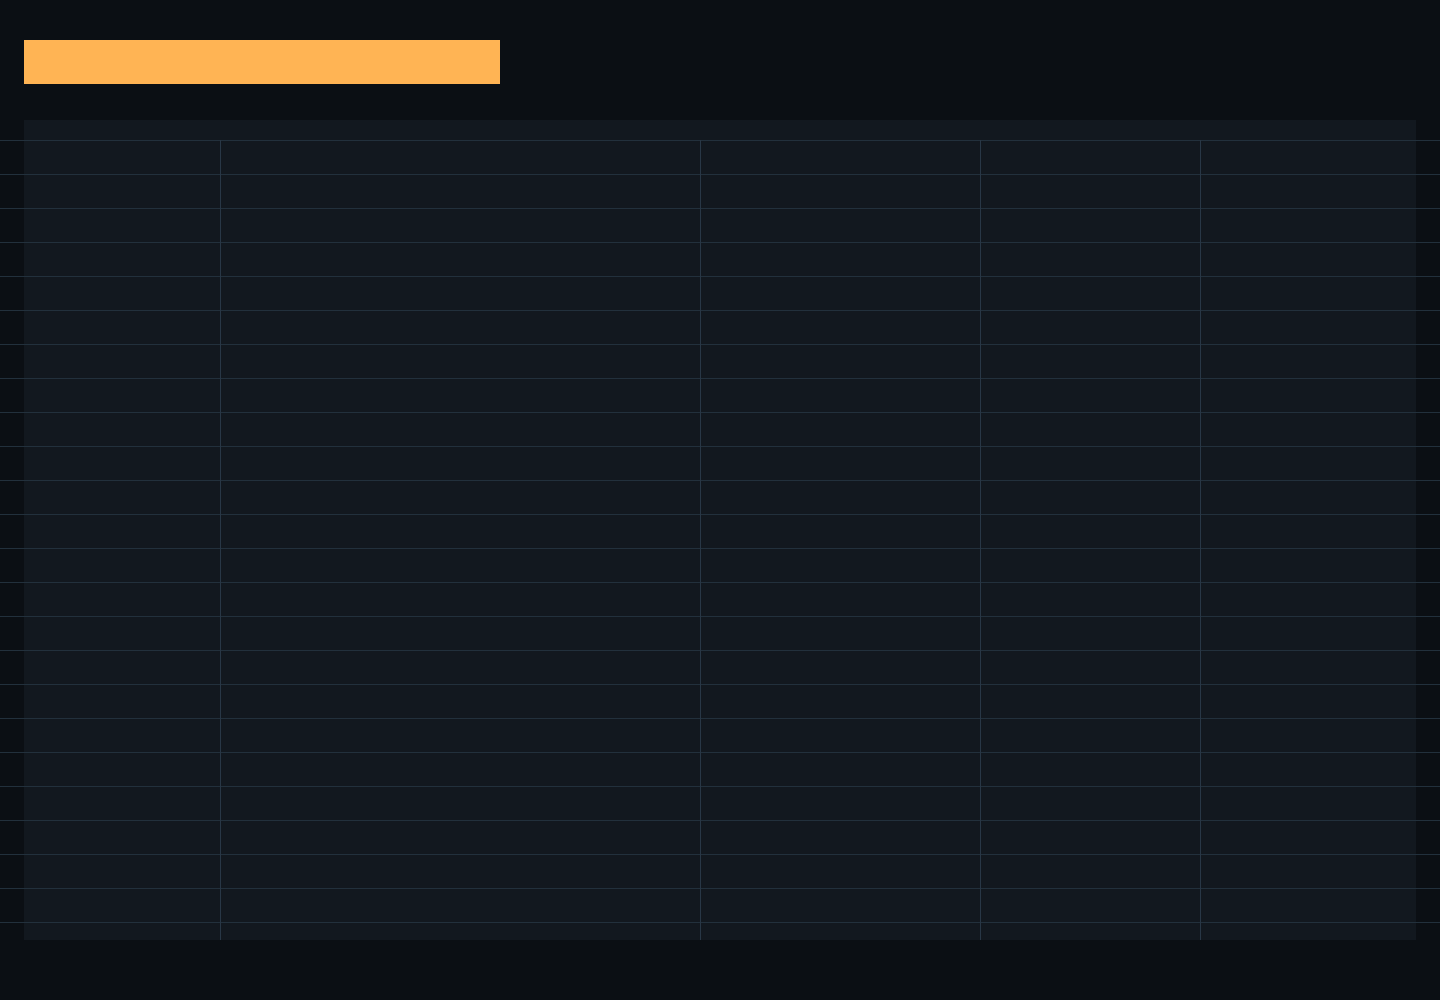
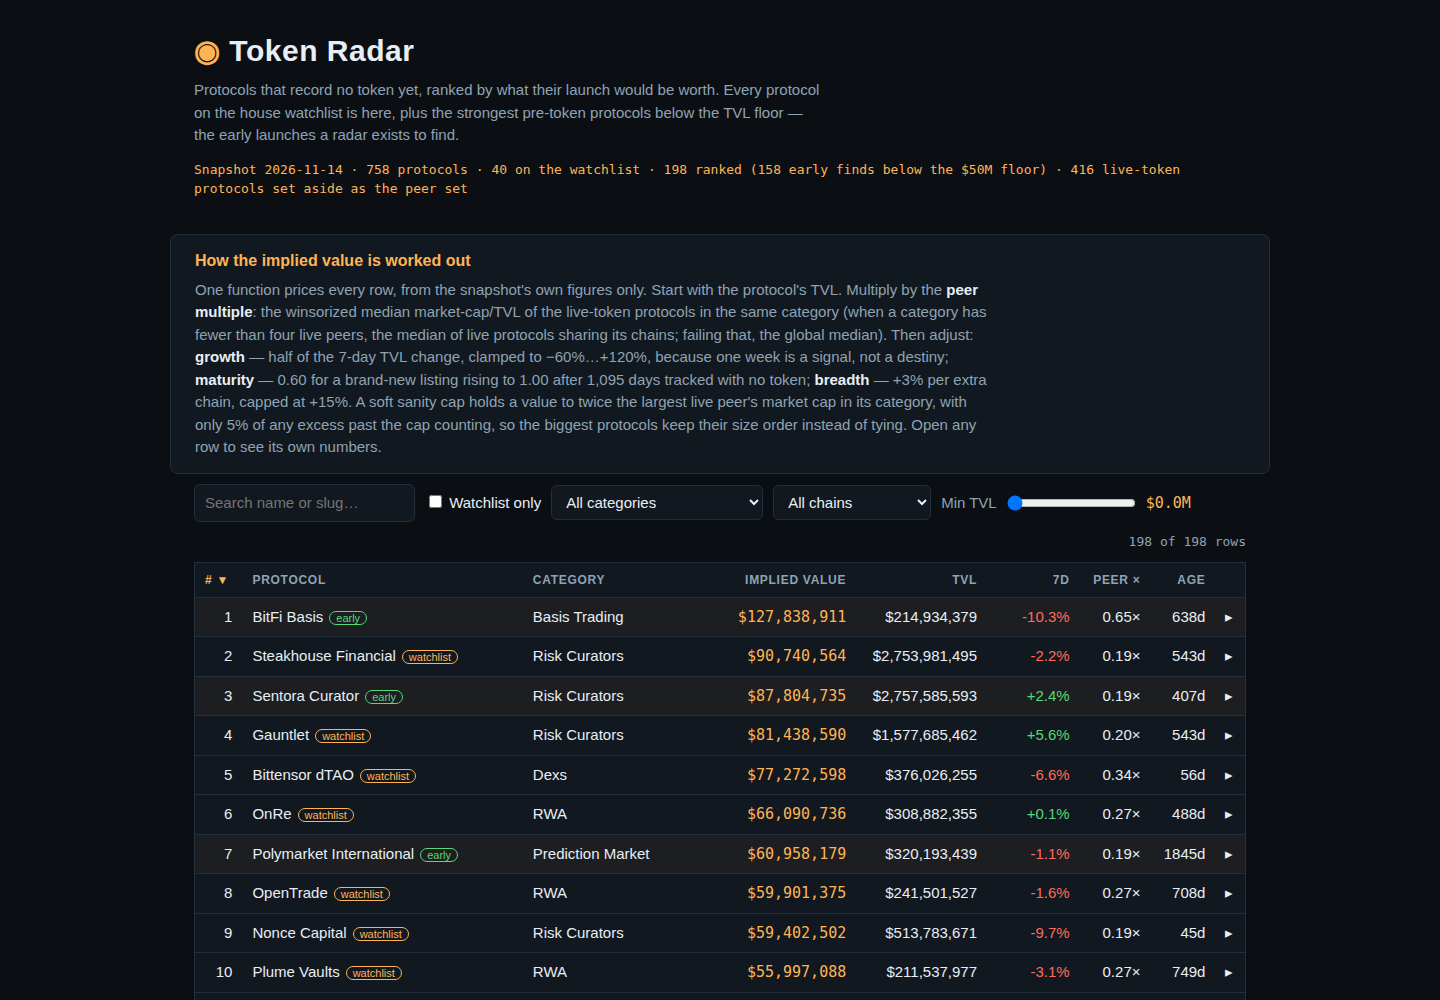
Fix detail auto-scroll on load; real headless-Chromium screenshots of the built page (board, BitFi Basis detail, watchlist-filtered)

diff --git a/dashboard/app.js b/dashboard/app.js
@@ -83,7 +83,7 @@ const SRC_LABEL = {
   global: 'the global winsorized median (its category and chains have too few live peers)',
 };
 
-function detail(r) {
+function detail(r, scroll = true) {
   const d = $('detail');
   d.hidden = false;
   const steps = r.farm_steps.map((s) => `<li>${esc(s)}</li>`).join('');
@@ -112,7 +112,7 @@ function detail(r) {
     `</tbody></table>` +
     `<h3>What the market already pays its live peers</h3>${peers}` +
     `<h3>How to farm it</h3><ol>${steps}</ol>`;
-  d.scrollIntoView({ block: 'nearest' });
+  if (scroll) d.scrollIntoView({ block: 'nearest' });
 }
 
 for (const id of ['q', 'cat', 'chain', 'watch', 'mintvl']) $(id).addEventListener('input', render);
@@ -132,4 +132,4 @@ if (hash.get('chain')) $('chain').value = hash.get('chain');
 if (hash.get('min')) $('mintvl').value = hash.get('min');
 render();
 const open = R.rows.find((r) => r.slug === hash.get('p')) ?? R.rows[0];
-if (open) detail(open);
+if (open) detail(open, false);
